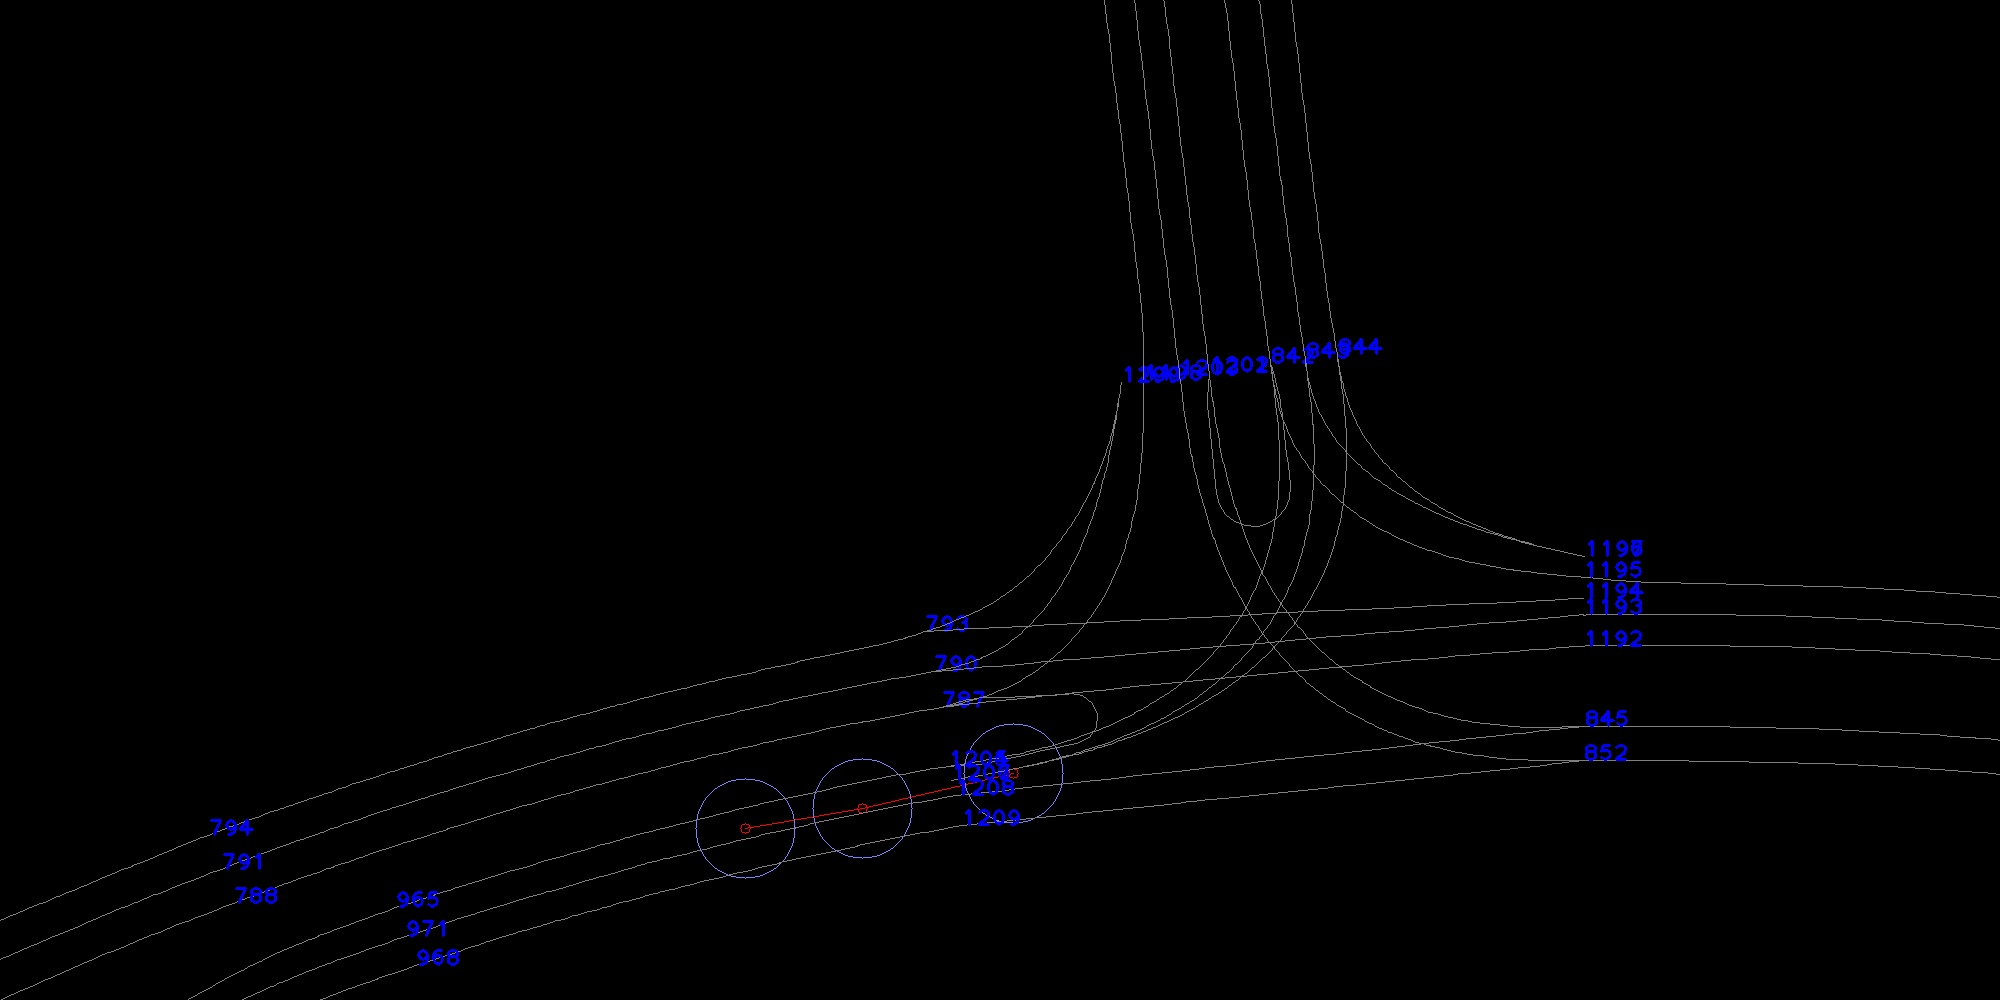
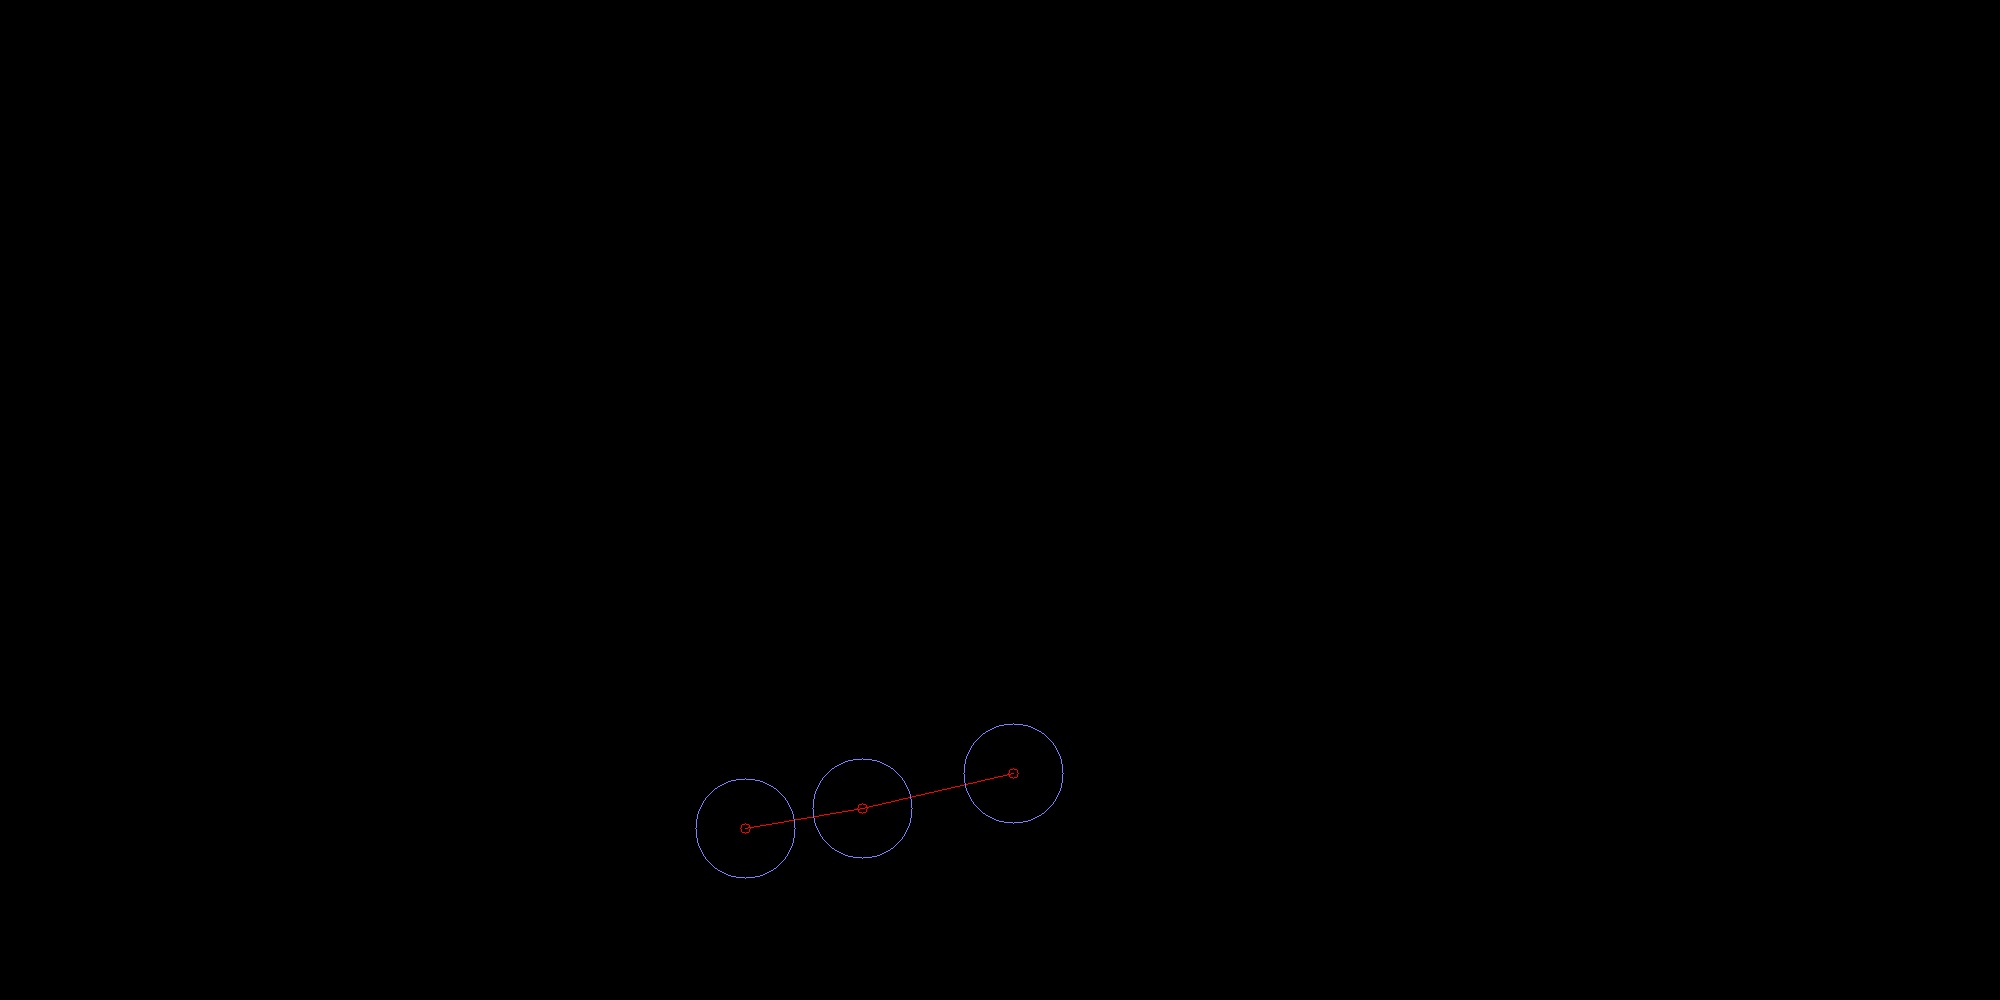
changed hdmap functions to extract the center points, boundary points in the same function

diff --git a/mec/mapcore/hdmap-impl.cpp b/mec/mapcore/hdmap-impl.cpp
@@ -940,9 +940,55 @@ double hdmap_impl::get_distance_pt_curve_enu(const Eigen::Vector3d &pt_enu, uint
 	return distance;
 }
 
-std::vector<central_curve> hdmap_impl::get_central_curves_enu(void)
+std::vector<Curve> hdmap_impl::get_curves_enu(BoundaryType type)
 {
-	std::vector<central_curve> p3d_all;
+	std::vector<Curve> p3d_all;
+	auto* hdr = header();
+	if (nullptr == hdr) {
+		return p3d_all;
+	}
+	if (!hdr->a.persistence) {
+		return p3d_all;
+	}
+	if (!hdr->laneseg_count) {
+		return p3d_all;
+	}
+	for (uint64_t lane_index = 0; lane_index < hdr->laneseg_count; lane_index++) {
+		Curve curve;
+		vector<Eigen::Vector3d> p3ds = get_curve(lane_index,BoundaryType::inner_boundary);
+		curve.id = lane_index;
+		curve.p3d = p3ds;
+		p3d_all.push_back(curve);
+	}
+	return p3d_all;
+}
+
+std::vector<Curve> hdmap_impl::get_boundary_curves_enu(void)
+{
+	std::vector<Curve> p3d_all;
+	auto* hdr = header();
+	if (nullptr == hdr) {
+		return p3d_all;
+	}
+	if (!hdr->a.persistence) {
+		return p3d_all;
+	}
+	if (!hdr->laneseg_count) {
+		return p3d_all;
+	}
+	for (uint64_t lane_index = 0; lane_index < hdr->laneseg_count; lane_index++) {
+		Curve curve;
+		vector<Eigen::Vector3d> p3ds = get_curve(lane_index,BoundaryType::inner_boundary);
+		curve.id = lane_index;
+		curve.p3d = p3ds;
+		p3d_all.push_back(curve);
+	}
+	return p3d_all;
+}
+
+std::vector<Curve> hdmap_impl::get_central_curves_enu(void)
+{
+	std::vector<Curve> p3d_all;
 	auto* hdr = header();
 	if (nullptr == hdr) {
 		return p3d_all;
@@ -955,7 +1001,7 @@ std::vector<central_curve> hdmap_impl::get_central_curves_enu(void)
 	}
 
 	for (uint64_t lane_index = 0; lane_index < hdr->laneseg_count; lane_index++) {
-		central_curve curve;
+		Curve curve;
 		vector<Eigen::Vector3d> p3ds = get_curve(lane_index);
 		curve.id = lane_index;
 		curve.p3d = p3ds;
@@ -965,7 +1011,8 @@ std::vector<central_curve> hdmap_impl::get_central_curves_enu(void)
 	return p3d_all;
 }
 
-std::vector<Eigen::Vector3d> hdmap_impl::get_curve(uint64_t lane_id)
+
+std::vector<Eigen::Vector3d> hdmap_impl::get_curve(uint64_t lane_id,BoundaryType type)
 {
 	std::vector<Eigen::Vector3d> p3ds;
 	auto* hdr = header();
@@ -997,6 +1044,27 @@ std::vector<Eigen::Vector3d> hdmap_impl::get_curve(uint64_t lane_id)
 
 	auto& pts = ls->data.ptr->extinfo.center_pts;
 	size_t ptsz = ls->data.ptr->extinfo.center_pts.size / sizeof(hdmap_lane_boundary_point_v1);
+
+	if (type == BoundaryType::center_curve) {
+		auto& pts = ls->data.ptr->extinfo.center_pts;
+		size_t ptsz = ls->data.ptr->extinfo.center_pts.size / sizeof(hdmap_lane_boundary_point_v1);
+	}
+	else if (type == BoundaryType::inner_boundary)
+	{
+		auto& pts = ls->data.ptr->extinfo.inner_pts;
+		size_t ptsz = ls->data.ptr->extinfo.inner_pts.size / sizeof(hdmap_lane_boundary_point_v1);
+	}
+	else if (type == BoundaryType::outer_boundary)
+	{
+		auto& pts = ls->data.ptr->extinfo.outer_pts;
+		size_t ptsz = ls->data.ptr->extinfo.outer_pts.size / sizeof(hdmap_lane_boundary_point_v1);
+	}
+	else
+	{
+		auto& pts = ls->data.ptr->extinfo.center_pts;
+		size_t ptsz = ls->data.ptr->extinfo.center_pts.size / sizeof(hdmap_lane_boundary_point_v1);
+	}
+	
 	
 	for (size_t i = 0; i < ptsz; i++) {
 		Eigen::Vector3d p3d;
@@ -1005,10 +1073,51 @@ std::vector<Eigen::Vector3d> hdmap_impl::get_curve(uint64_t lane_id)
 		p3d[2] = pts.ptr[i].pt.xyz.z;
 		p3ds.push_back(p3d);
 	}
-
-
 	return p3ds;
 }
+
+// std::vector<Eigen::Vector3d> hdmap_impl::get_curve(uint64_t lane_id)
+// {
+// 	std::vector<Eigen::Vector3d> p3ds;
+// 	auto* hdr = header();
+// 	if (nullptr == hdr) {
+// 		return p3ds;
+// 	}
+// 	if (!hdr->a.persistence) {
+// 		return p3ds;
+// 	}
+// 	if (!hdr->laneseg_count) {
+// 		return p3ds;
+// 	}
+// 	if (lane_id >= hdr->laneseg_count) {
+// 		printf("lane seg point data error. point index %lu\n", lane_id);
+// 		return p3ds;
+// 	}
+// 	auto* ls = &_lanesegs[lane_id];
+// 	if (nullptr == ls || nullptr == ls->data.ptr) {
+// 		return p3ds;
+// 	}
+
+// 	if (nullptr == ls->data.ptr) {
+// 		return p3ds;
+// 	}
+
+// 	if (nullptr == ls->lane.ptr) {
+// 		return p3ds;
+// 	}
+
+// 	auto& pts = ls->data.ptr->extinfo.center_pts;
+// 	size_t ptsz = ls->data.ptr->extinfo.center_pts.size / sizeof(hdmap_lane_boundary_point_v1);
+	
+// 	for (size_t i = 0; i < ptsz; i++) {
+// 		Eigen::Vector3d p3d;
+// 		p3d[0] = pts.ptr[i].pt.xyz.x;
+// 		p3d[1] = pts.ptr[i].pt.xyz.y;
+// 		p3d[2] = pts.ptr[i].pt.xyz.z;
+// 		p3ds.push_back(p3d);
+// 	}
+// 	return p3ds;
+// }
 
 double hdmap_impl::get_distance_pt_closest_central_line_enu(const Eigen::Vector3d &pt_enu, Eigen::Vector3d &cross_pt_map_enu)
 {
@@ -2374,9 +2483,21 @@ double hdmap::get_distance_pt_curve_enu(const Eigen::Vector3d &pt_enu, uint64_t 
 	return map->get_distance_pt_curve_enu(pt_enu, lane_id, cross_pt_curve);
 }
 
-std::vector<central_curve> hdmap::get_central_curves_enu(void)
+std::vector<Curve> hdmap::get_boundary_curves_enu(void)
 {
-	std::vector<central_curve> tmp;
+	std::vector<Curve> tmp;
+	if (nullptr == _data) {
+		return tmp;
+	}
+	auto* map = reinterpret_cast<hdmap_impl*>(_data);
+	if (!map->valid()) {
+		return tmp;
+	}
+	return map->get_boundary_curves_enu();
+}
+std::vector<Curve> hdmap::get_central_curves_enu(void)
+{
+	std::vector<Curve> tmp;
 	if (nullptr == _data) {
 		return tmp;
 	}

diff --git a/mec/mapcore/inc/hdmap-impl.h b/mec/mapcore/inc/hdmap-impl.h
@@ -48,6 +48,13 @@ struct hdmap_lanesect_transition
 	std::map<uint64_t, uint64_t> lsc_right_index;
 };
 
+// 定义枚举类
+enum class BoundaryType {
+    center_curve,   // 中心曲线
+    inner_boundary, // 内边界
+    outer_boundary  // 外边界
+};
+
 class hdmap_impl
 {
 public:
@@ -79,8 +86,11 @@ public:
 	Eigen::MatrixXd CalculateTransitionalProbability(std::vector<uint64_t> lanes_id_1,std::vector<uint64_t> lanes_id_2);
 	
 	double get_distance_pt_curve_enu(const Eigen::Vector3d &pt_enu, uint64_t lane_id, Eigen::Vector3d &cross_pt_curve);
-	std::vector<central_curve> get_central_curves_enu(void);
-	std::vector<Eigen::Vector3d> get_curve(uint64_t lane_id);
+	std::vector<Curve> get_central_curves_enu(void);
+	std::vector<Curve> get_boundary_curves_enu(void);
+	std::vector<Curve> get_curves_enu(BoundaryType type=BoundaryType::center_curve);
+	
+	std::vector<Eigen::Vector3d> get_curve(uint64_t lane_id,BoundaryType type = BoundaryType::center_curve);
 	double get_distance_pt_closest_central_line_enu(const Eigen::Vector3d &pt_enu, Eigen::Vector3d &cross_pt_map_enu);
 	int	generate_lanesect_transition(const char* filepath);
 	

diff --git a/view/imgprocessor.cpp b/view/imgprocessor.cpp
@@ -68,7 +68,9 @@ namespace civ
 
             void IMGPROCESSOR::PlotHDMap(std::shared_ptr<zas::mapcore::hdmap> sp_hdmap)
             {
-                std::vector<central_curve> central_curves_enu = sp_hdmap->get_central_curves_enu();
+                std::vector<Curve> boundary_curves_enu = sp_hdmap->get_boundary_curves_enu();
+                // sp_hdmap_
+                std::vector<Curve> central_curves_enu = sp_hdmap->get_central_curves_enu();
                 for (auto const &central_curve : central_curves_enu)
                 {
                     PlotCurveEnu(&result_img_, central_curve.p3d, cv::Scalar(128, 128, 128));

diff --git a/mec/zsfd/inc/mapcore/hdmap.h b/mec/zsfd/inc/mapcore/hdmap.h
@@ -496,11 +496,16 @@ struct Pose
     Eigen::Vector3d ENU;
 };
 
-struct central_curve
+struct Curve
 {
     uint64_t id;
     std::vector<Eigen::Vector3d> p3d;
 };
+// struct central_curve:Curve
+// {};
+
+
+
 
 struct hdmap_segment_point
 {
@@ -784,7 +789,9 @@ public:
 
 	double get_distance_pt_curve_enu(const Eigen::Vector3d &pt_enu, uint64_t lane_id, Eigen::Vector3d &cross_pt_curve);
 
-	std::vector<central_curve> get_central_curves_enu(void);
+	std::vector<Curve> get_central_curves_enu(void);
+
+	std::vector<Curve> get_boundary_curves_enu(void);
 
 	std::vector<Eigen::Vector3d> get_curve(uint64_t lane_id);
 

diff --git a/README.md b/README.md
@@ -139,20 +139,15 @@ The gap parameters are estimated via Maximum Likelihood Estimate (MLE), which is
 
 ## HMM
 
-HMM is used to infer the vehicle localization on the lane level in order to know if the vehicle is driving on the 
-
-
-```shell
-
-
-```
+HMM is used to infer the vehicle localization on the lane level in order to know if the vehicle is driving on the correct way. The more detailed explanation is in modules/HMM/README.md
 
 ## view
-The viewer will show the map, trajectory and the HMM result
+The viewer is used to show the map, trajectory and the HMM result with the class IMGPROCESSOR implemented in imgprocessor.cpp. The example is given in imgprocessor_test.cpp, which generates civview_test
+
 ```shell
 ./build/bin/civview_test
 ```
-The result will be saved in the folder img_result
+This example will read a trajectory, filter it with HMM, and plot the result in folder img_result
 
 
 
